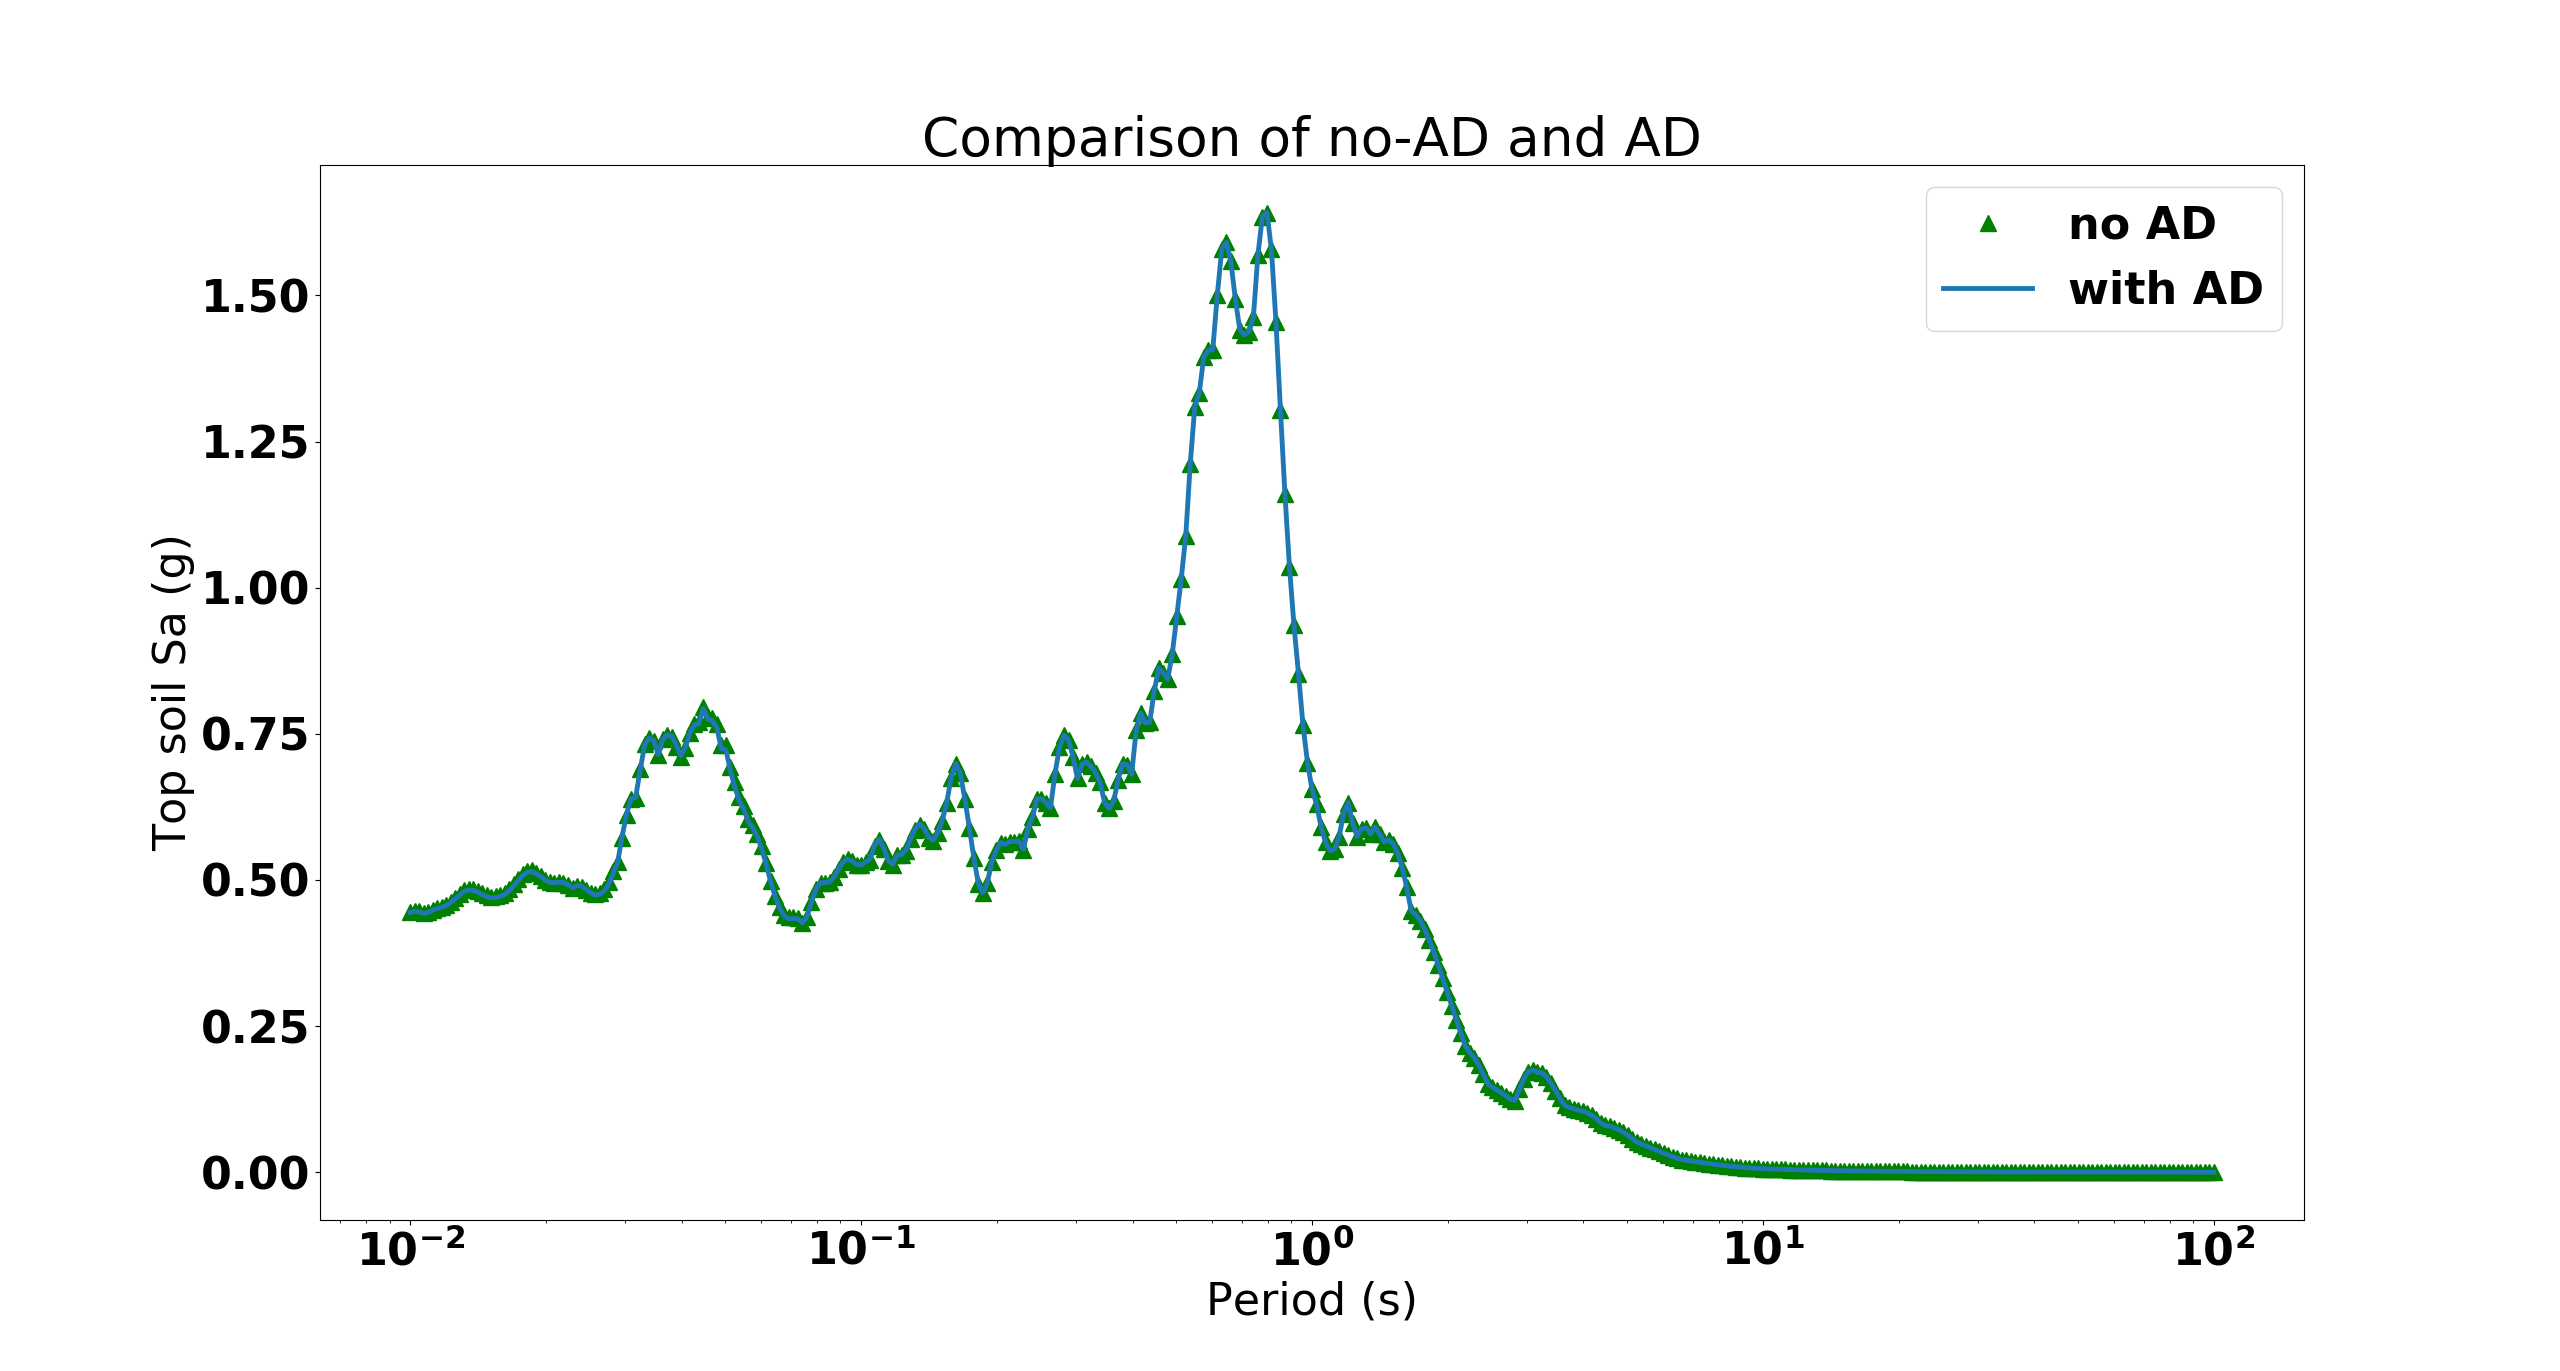
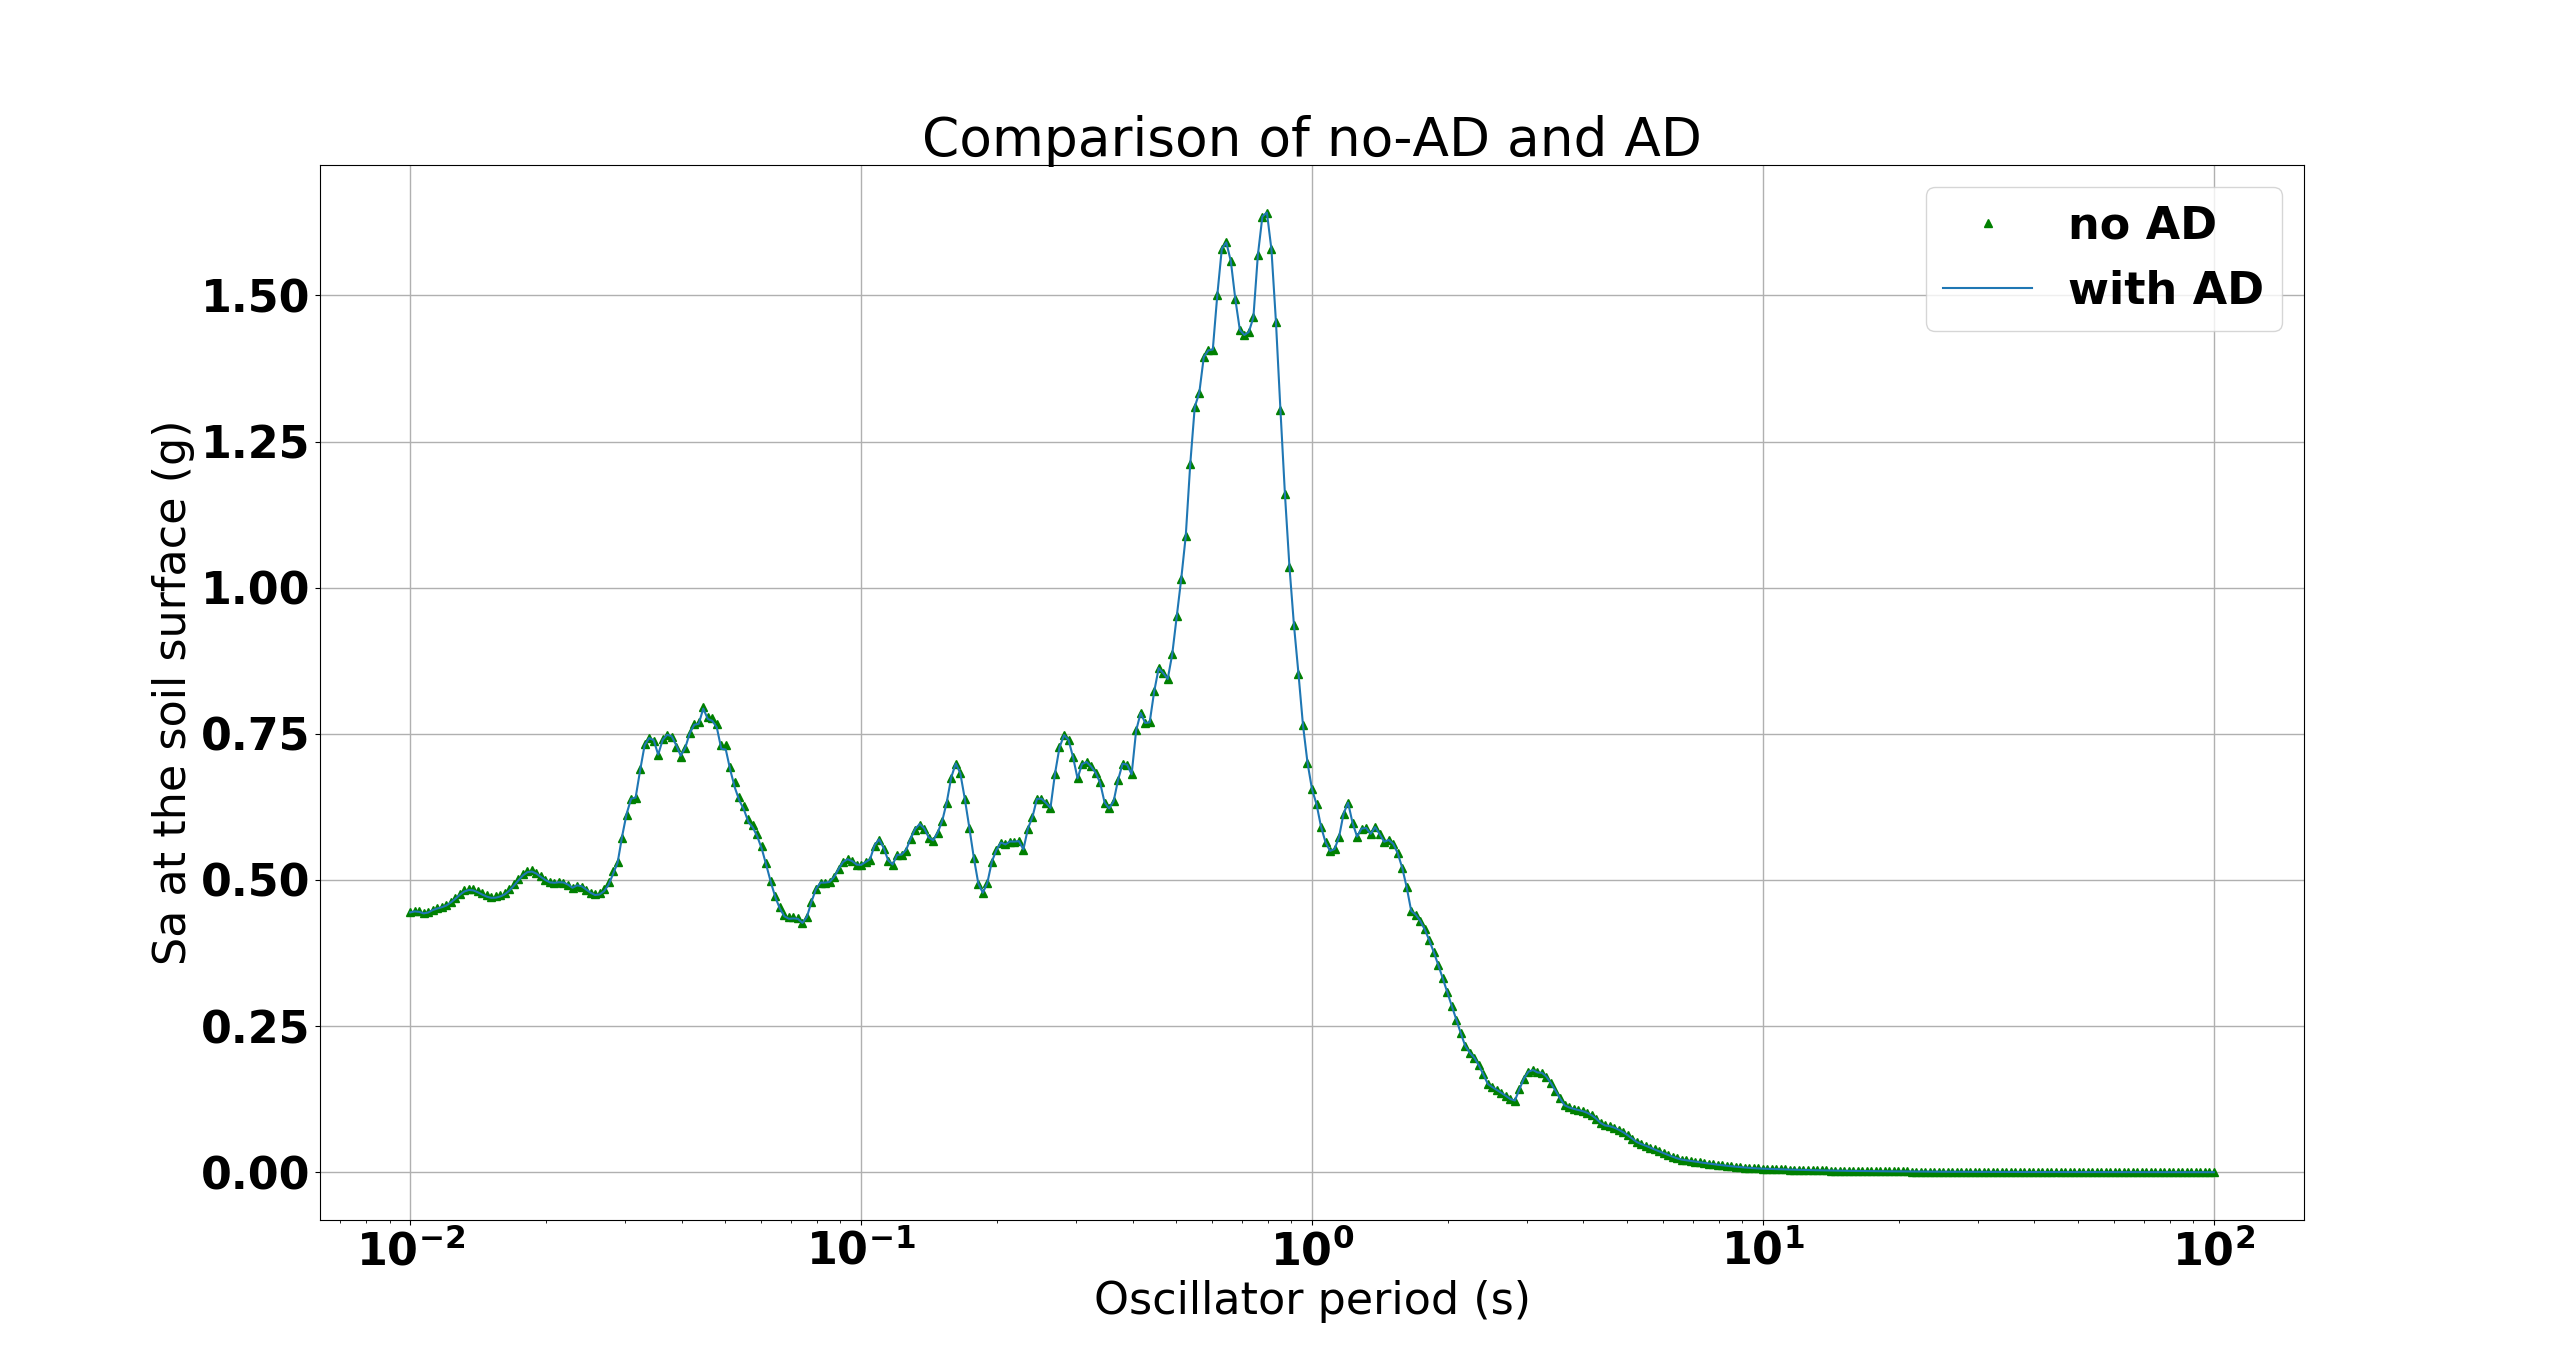
Closes #238

diff --git a/doc/content/examples/example3.md b/doc/content/examples/example3.md
@@ -90,17 +90,24 @@ structure interaction analysis can be found in [!citet](baltaji2017nonlinear).
 ## Implementation using Automatic Differentiation
 
 This example can also be run using Automatic Differentiation (AD). Automatic Differentiation
-computes the numerical Jacobian that is very close to the theoretical Jacobian.  
+enables the computation of a numerical Jacobian that is almost identical to the theoretical
+Jacobian of a kernel. This results in much quicker convergence, even for highly nonlinear
+problems. Therefore, `solve_type=NEWTON` can be used in the executioner, which uses
+the full Jacobian unlike `solve_type=PJFNK`, which is recommended when only an approximate
+estimate of the Jacobian is available. In MASTODON, the iSoil material model has been
+converted to AD and the usage of the AD version of iSoil is demonstrated below.  
 More information can be found in [ISoil material](source/materials/ADComputeISoilStress.md).
 
-The following two additions to the input file should be made to run this example using AD.
-Add 'use_automatic_differentiation = true' in 'Kernels/DynamicTensorMechanics':
+The following two modifications to the input file should be made to run this example using AD.
+These modifications ensure the AD versions of the stress divergence kernels and the
+material kernels are being used during the solve. Add 'use_automatic_differentiation = true'
+in 'Kernels/DynamicTensorMechanics':
 
 !listing examples/ex03/shear_beam_Isoil_free_field_AD.i
          start=Kernels
          end=AuxKernels
 
-Also add 'use_automatic_differentiation = true' in 'Materials/I_Soil/soil_all':
+Also, add 'use_automatic_differentiation = true' in 'Materials/I_Soil/soil_all':
 
 !listing examples/ex03/shear_beam_Isoil_free_field_AD.i
          start=Materials
@@ -112,11 +119,11 @@ using AD and no-AD. The AD and the no-AD results quite closely match.
 !media media/examples/AD_noAD_Comp.png
        style=width:90%;float:center;
        id=fig:ad_acc_comp
-       caption=Comparison of top soil accelerations generated using AD and no-AD.
+       caption=Comparison of accelerations at the soil surface generated using AD and no-AD.
 
 !media media/examples/AD_noAD_Comp_RS.png
        style=width:90%;float:center;
        id=fig:ad_rs_comp
-       caption=Comparison of top soil response spectra generated using AD and no-AD.
+       caption=Comparison of response spectra at the soil surface generated using AD and no-AD.
 
 !bibtex bibliography
